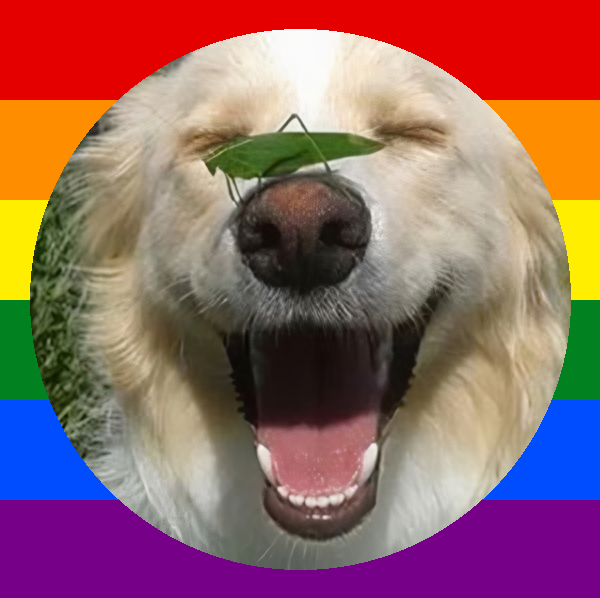
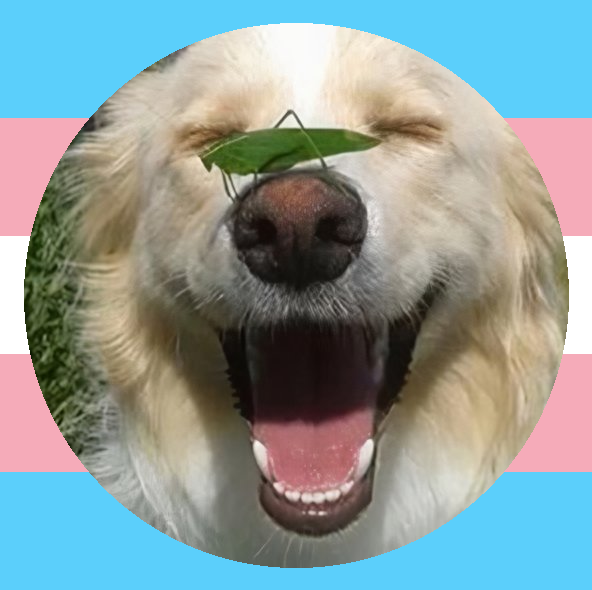
feat: change flags to vec, render new examples

diff --git a/src/flags.rs b/src/flags.rs
@@ -1,4 +1,4 @@
-use strum_macros::{Display, EnumString, EnumIter};
+use strum_macros::{Display, EnumIter, EnumString};
 
 /// Built-in flags
 #[derive(Display, EnumString, EnumIter)]
@@ -17,10 +17,10 @@ pub enum Flags {
     Polyamory,
 }
 
-impl<'a> Into<&'a [(u8, u8, u8)]> for Flags {
-    fn into(self) -> &'a [(u8, u8, u8)] {
-        match self {
-            Self::Rainbow => &[
+impl From<Flags> for Vec<(u8, u8, u8)> {
+    fn from(val: Flags) -> Self {
+        match val {
+            Flags::Rainbow => vec![
                 (229, 0, 0),
                 (255, 141, 0),
                 (255, 238, 0),
@@ -28,29 +28,29 @@ impl<'a> Into<&'a [(u8, u8, u8)]> for Flags {
                 (0, 76, 255),
                 (119, 0, 136),
             ],
-            Self::Transgender => &[
+            Flags::Transgender => vec![
                 (91, 207, 251),
                 (245, 171, 185),
                 (255, 255, 255),
                 (245, 171, 185),
                 (91, 207, 251),
             ],
-            Self::Bisexual => &[(214, 2, 112), (155, 79, 150), (0, 56, 168)],
-            Self::Pansexual => &[(255, 28, 141), (255, 215, 0), (26, 179, 255)],
-            Self::Nonbinary => &[
+            Flags::Bisexual => vec![(214, 2, 112), (155, 79, 150), (0, 56, 168)],
+            Flags::Pansexual => vec![(255, 28, 141), (255, 215, 0), (26, 179, 255)],
+            Flags::Nonbinary => vec![
                 (252, 244, 49),
                 (252, 252, 252),
                 (157, 89, 210),
                 (40, 40, 40),
             ],
-            Self::Lesbian => &[
+            Flags::Lesbian => vec![
                 (214, 40, 0),
                 (255, 155, 86),
                 (255, 255, 255),
                 (212, 98, 166),
                 (164, 0, 98),
             ],
-            Self::Agender => &[
+            Flags::Agender => vec![
                 (0, 0, 0),
                 (186, 186, 186),
                 (255, 255, 255),
@@ -59,23 +59,23 @@ impl<'a> Into<&'a [(u8, u8, u8)]> for Flags {
                 (186, 186, 186),
                 (0, 0, 0),
             ],
-            Self::Asexual => &[(0, 0, 0), (164, 164, 164), (255, 255, 255), (129, 0, 129)],
-            Self::Genderqueer => &[(181, 127, 221), (255, 255, 255), (73, 130, 30)],
-            Self::Genderfluid => &[
+            Flags::Asexual => vec![(0, 0, 0), (164, 164, 164), (255, 255, 255), (129, 0, 129)],
+            Flags::Genderqueer => vec![(181, 127, 221), (255, 255, 255), (73, 130, 30)],
+            Flags::Genderfluid => vec![
                 (254, 118, 162),
                 (255, 255, 255),
                 (191, 18, 215),
                 (0, 0, 0),
                 (48, 60, 190),
             ],
-            Self::Aromantic => &[
+            Flags::Aromantic => vec![
                 (59, 167, 64),
                 (168, 212, 122),
                 (255, 255, 255),
                 (171, 171, 171),
                 (0, 0, 0),
             ],
-            Self::Polyamory => &[(0, 0, 255), (255, 0, 0), (0, 0, 0)],
+            Flags::Polyamory => vec![(0, 0, 255), (255, 0, 0), (0, 0, 0)],
         }
     }
 }

diff --git a/src/lib.rs b/src/lib.rs
@@ -12,12 +12,15 @@ use std::ops::Div;
 
 type Image = ImageBuffer<Rgba<u8>, Vec<u8>>;
 
-fn draw(
-    image: &mut DynamicImage,
+fn draw<T>(
+    image: &DynamicImage,
     flag: &[(u8, u8, u8)],
     opacity: Option<Opacity>,
-    flag_transform: Option<Box<dyn Fn(Image, u32, u32) -> Image>>,
-) -> Image {
+    flag_transform: Option<Box<T>>,
+) -> Image
+where
+    T: Sized + Fn(Image, u32, u32) -> Image,
+{
     // get image data
     let mut image = image.to_rgba8();
     let (width, height) = image.dimensions();
@@ -48,20 +51,21 @@ fn draw(
 }
 
 /// Overlay a pride flag over an image
-pub fn overlay(image: &mut DynamicImage, flag: &[(u8, u8, u8)], opacity: Option<Opacity>) -> Image {
-    draw(
-        image,
-        flag,
-        opacity,
-        None::<Box<dyn Fn(Image, u32, u32) -> Image>>,
-    )
+pub fn overlay<T>(image: &DynamicImage, flag: T, opacity: Option<Opacity>) -> Image
+where
+    T: Into<Vec<(u8, u8, u8)>>,
+{
+    draw::<fn(Image, u32, u32) -> Image>(image, &flag.into(), opacity, None)
 }
 
 /// Overlay a pride flag ring over an image
-pub fn circle(image: &mut DynamicImage, flag: &[(u8, u8, u8)], thickness: Option<u8>) -> Image {
+pub fn circle<T>(image: &DynamicImage, flag: T, thickness: Option<u8>) -> Image
+where
+    T: Into<Vec<(u8, u8, u8)>>,
+{
     draw(
         image,
-        flag,
+        &flag.into(),
         Some(Opacity(255)),
         Some(Box::new(move |img, width, height| {
             draw_filled_circle(

diff --git a/src/opacity.rs b/src/opacity.rs
@@ -7,7 +7,7 @@ impl Opacity {
     }
 
     pub fn from_percentage(percentage: f32) -> Option<Opacity> {
-        if percentage >= 0. && percentage <= 100. {
+        if (0. ..=100.).contains(&percentage) {
             return Some(Opacity((2.55 * percentage).floor() as u8));
         }
 

diff --git a/readme.md b/readme.md
@@ -1,8 +1,22 @@
 <div align="center">
-	<img src="input.png" width="250">
 	<h1>pride-overlay</h1>
 </div>
 
-A crate to overlay pride flags on images.
+<table>
+		<tr>
+			<th>Base Image</th>
+			<th>Overlay</th>
+			<th>Circle</th>
+		</tr>
+		<tr>
+			<td><img src="input.jpg" /></td>
+			<td><img src="overlay.png" /></td>
+			<td><img src="circle.png" /></td>
+		</tr>
+	</table>
+
+> A crate to overlay pride flags on images.
+
+All of the images above are rendered using default settings.
 
 [Documentation](https://docs.rs/pride-overlay)
